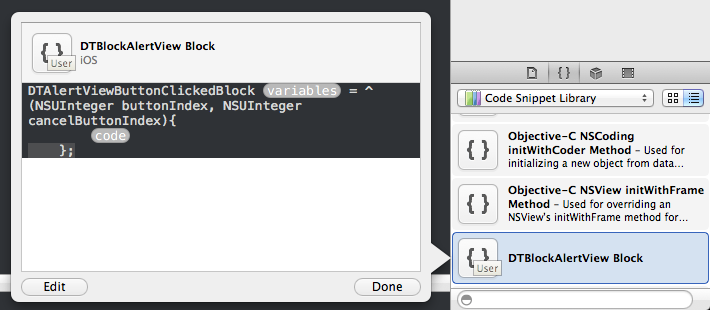
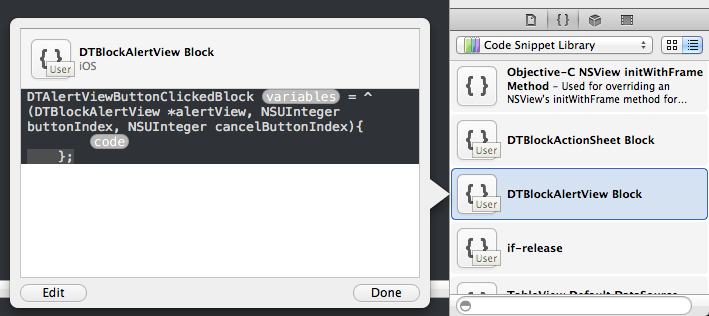
Add new return variables in block

Changed region(s): [[0.0, 0.0, 1.0, 0.9871]]

diff --git a/DTBlockAlertView/DTBlockAlertView.h b/DTBlockAlertView/DTBlockAlertView.h
@@ -19,7 +19,7 @@
 
 @interface DTBlockAlertView : UIAlertView
 
-typedef void (^DTAlertViewButtonClickedBlock) (NSUInteger buttonIndex, NSUInteger cancelButtonIndex);
+typedef void (^DTAlertViewButtonClickedBlock) (DTBlockAlertView *alertView, NSUInteger buttonIndex, NSUInteger cancelButtonIndex);
 
 + (id)alertViewUseBlock:(DTAlertViewButtonClickedBlock)block title:(NSString *)title message:(NSString *)message cancelButtonTitle:(NSString *)cancelButtonTitle otherButtonTitles:(NSString *)otherButtonTitles, ... NS_REQUIRES_NIL_TERMINATION;
 

diff --git a/DTBlockAlertViewDemo/ViewController.m b/DTBlockAlertViewDemo/ViewController.m
@@ -20,7 +20,7 @@
     [super viewDidLoad];
 	// Do any additional setup after loading the view, typically from a nib.
     
-    DTAlertViewButtonClickedBlock block = ^(NSUInteger buttonIndex, NSUInteger cancelButtonIndex){
+    DTAlertViewButtonClickedBlock block = ^(DTBlockAlertView *alertView, NSUInteger buttonIndex, NSUInteger cancelButtonIndex){
         NSString *message;
         
         if (buttonIndex == cancelButtonIndex) {

diff --git a/DTBlockAlertView/DTBlockAlertView.m b/DTBlockAlertView/DTBlockAlertView.m
@@ -87,7 +87,7 @@
 
 - (void)alertView:(UIAlertView *)alertView clickedButtonAtIndex:(NSInteger)buttonIndex
 {
-    _block(buttonIndex, self.cancelButtonIndex);
+    _block(self, buttonIndex, self.cancelButtonIndex);
 }
 
 @end
